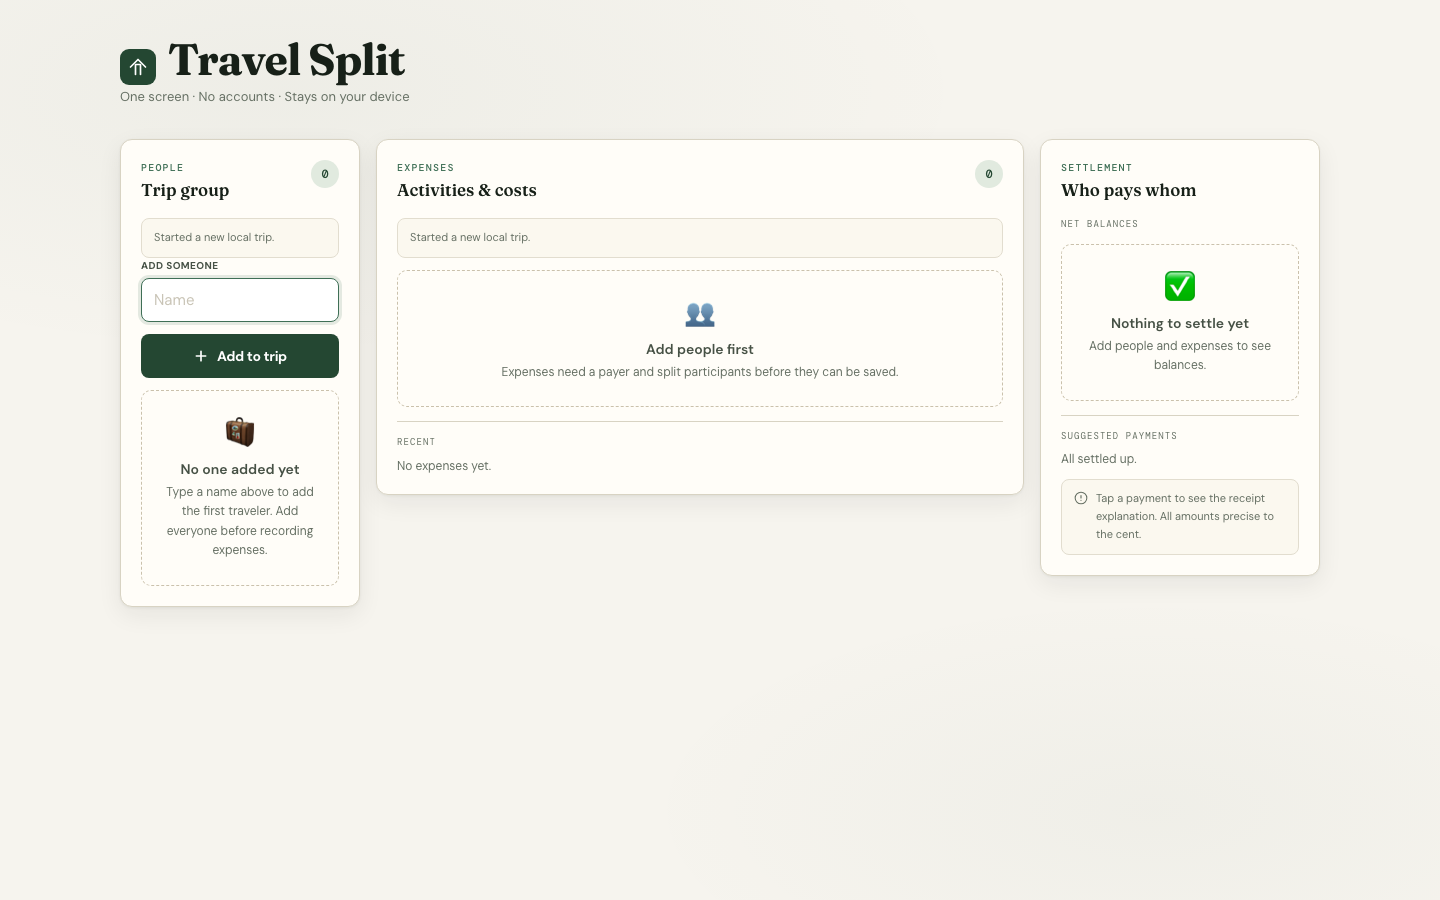
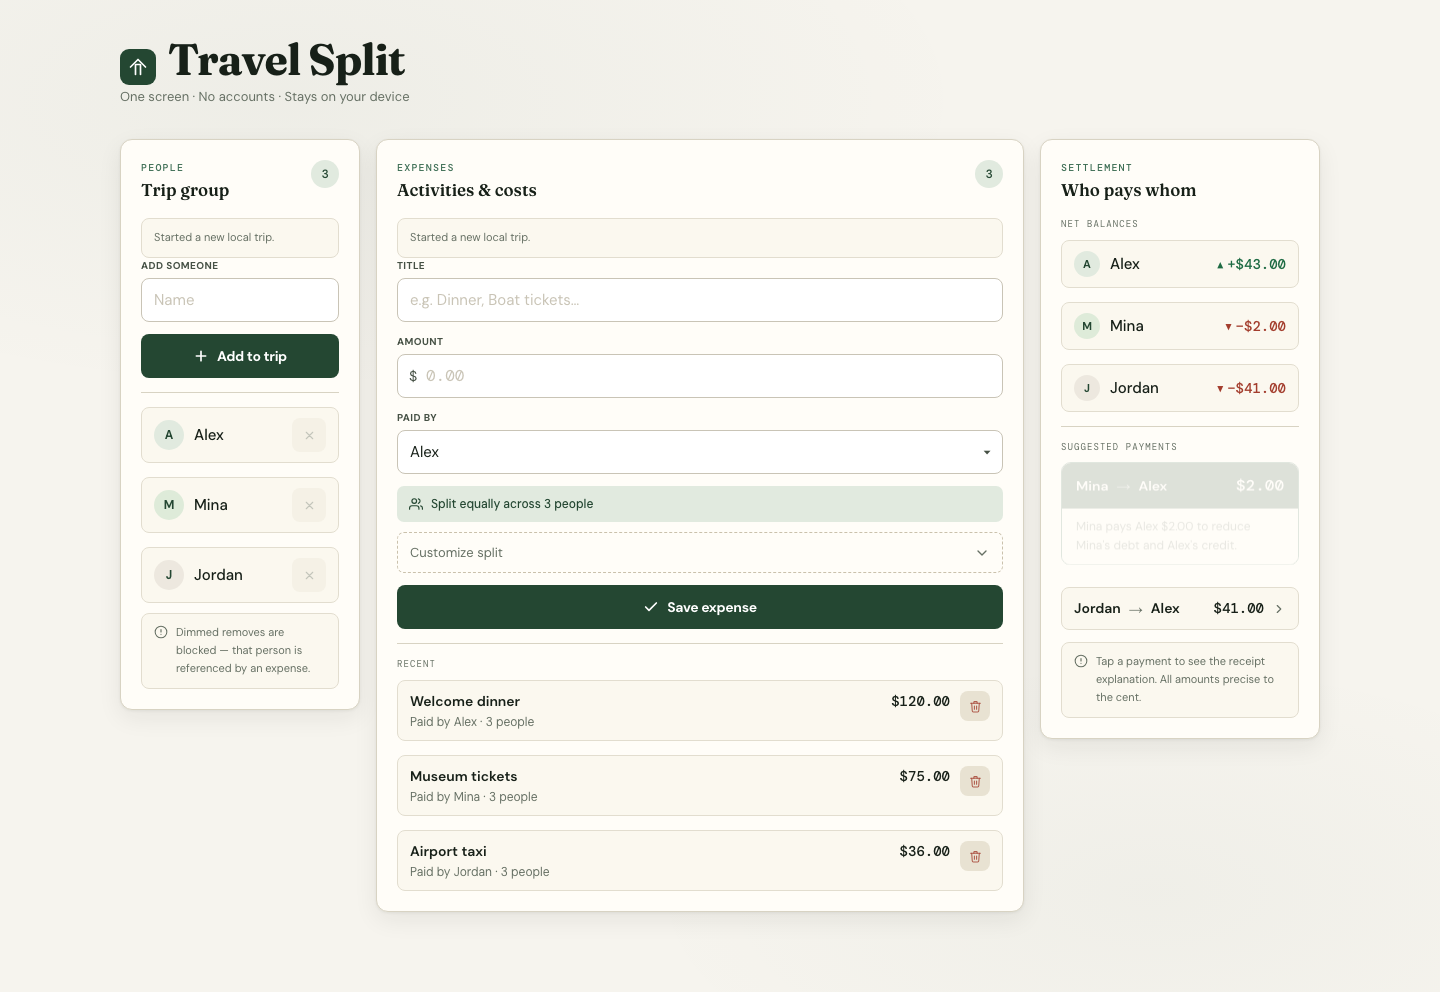
docs: show sample trip screenshots

diff --git a/README.md b/README.md
@@ -24,29 +24,31 @@ Travel Split is for small travel groups that need a simple shared-expense ledger
 
 ## UI walkthrough
 
+The screenshots below use a sample trip with three travelers — Alex, Mina, and Jordan — plus three shared expenses: welcome dinner, museum tickets, and airport taxi.
+
 ### Desktop workspace
 
-![Travel Split desktop workspace](docs/screenshots/desktop-workspace.png)
+![Travel Split desktop workspace with sample trip data](docs/screenshots/desktop-workspace.png)
 
 The desktop UI is a three-column workspace:
 
-1. **People** — add trip members and see the current group count.
-2. **Expenses** — the primary work area for recording activities and costs.
-3. **Settlement** — always-visible net balances and suggested payments.
+1. **People** — the left panel manages the trip roster and shows that all three travelers are part of the current split.
+2. **Expenses** — the center panel is the primary work area, showing the expense form plus recent trip costs.
+3. **Settlement** — the right panel is always visible, so every new expense immediately updates net balances and suggested payments.
 
 This layout is optimized for planning or reviewing a trip on a laptop. The user can add people, record costs, and see settlement impact without switching screens.
 
-### Mobile tab layout
+### Mobile Settle tab
 
-![Travel Split mobile tab layout](docs/screenshots/mobile-tabs.png)
+![Travel Split mobile Settle tab with sample trip data](docs/screenshots/mobile-settle.png)
 
 The mobile UI uses a bottom tab bar with three destinations:
 
 - **People** — manage travelers.
-- **Expenses** — record shared costs.
+- **Expenses** — record shared costs and show the expense count badge.
 - **Settle** — review who pays whom.
 
-The tab layout keeps each task focused on a phone-sized screen. The selected tab uses a filled pill around the icon and label, giving a clear active state while preserving large touch targets.
+The Settle tab turns the ledger into an action list: each traveler has a clear net balance, and suggested payments show the smallest set of transfers needed to settle the trip. The selected tab uses a filled pill around the icon and label, giving a clear active state while preserving large touch targets.
 
 ## Main features
 
